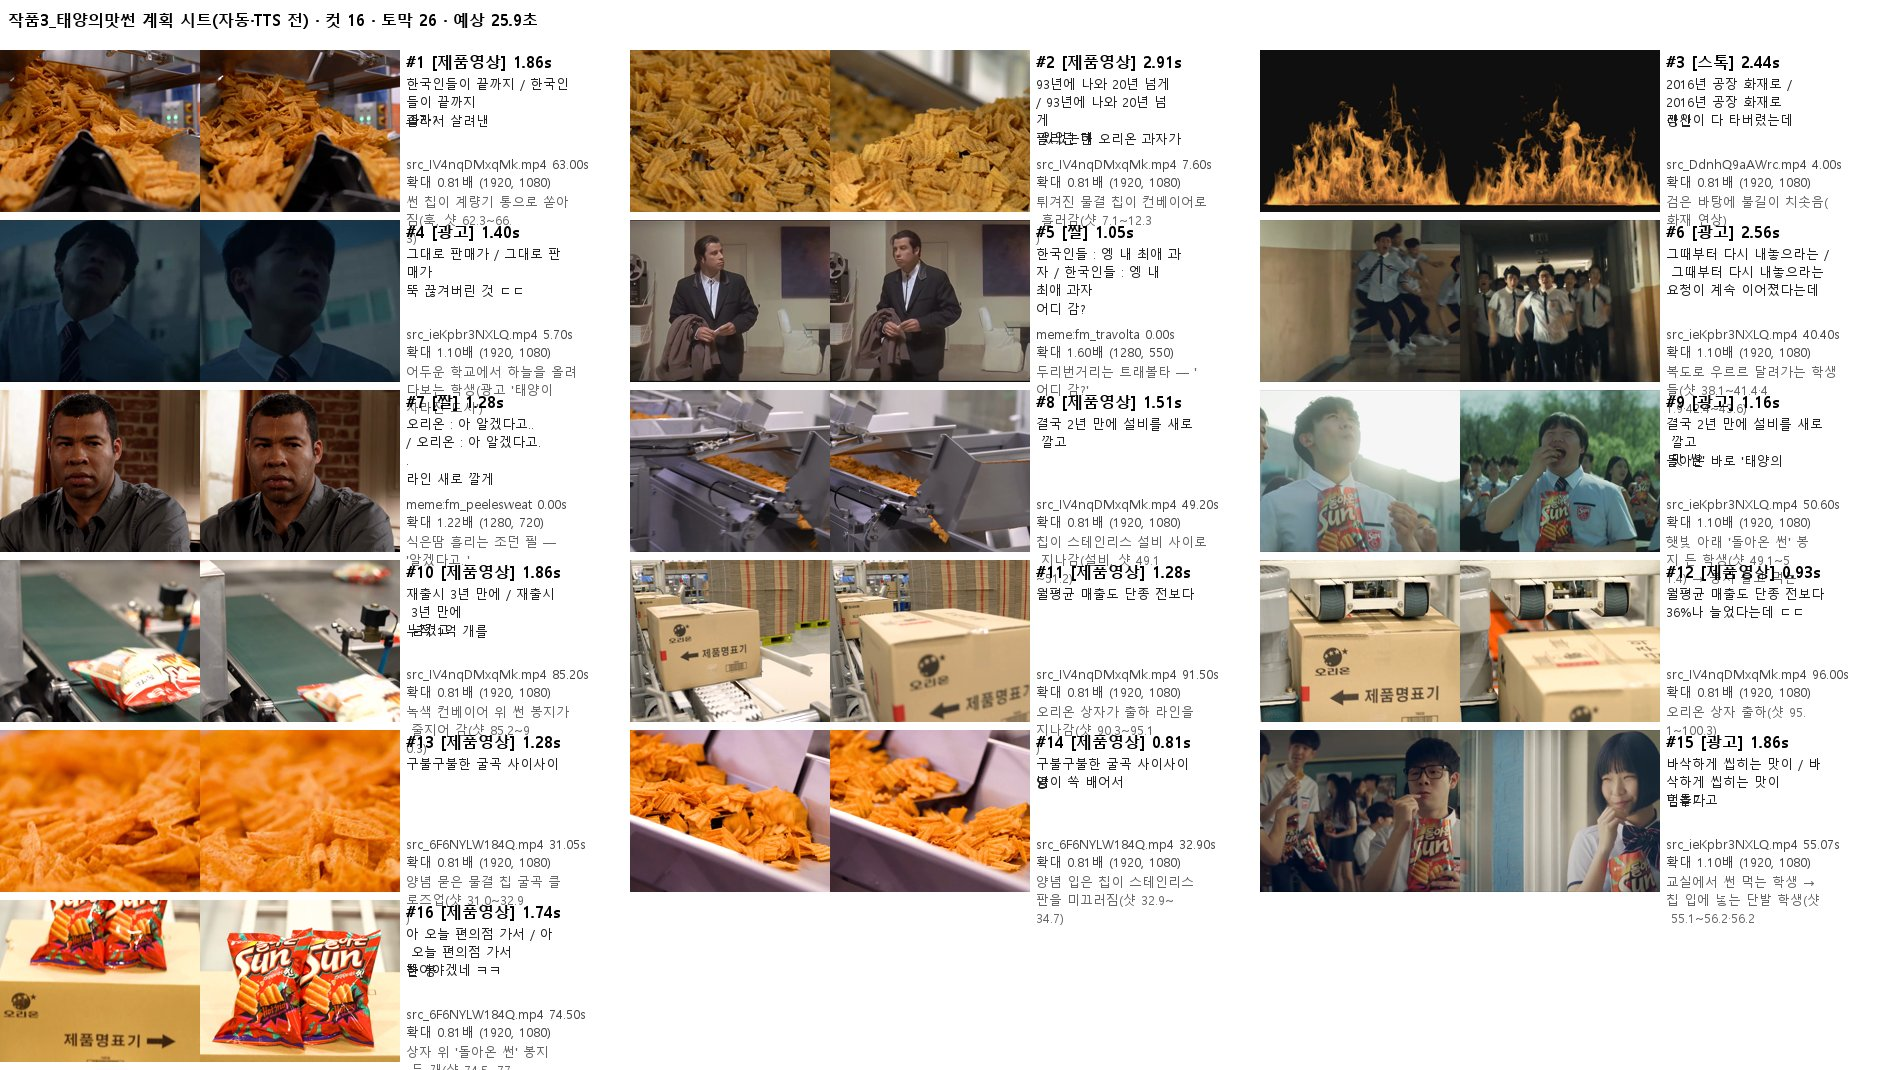
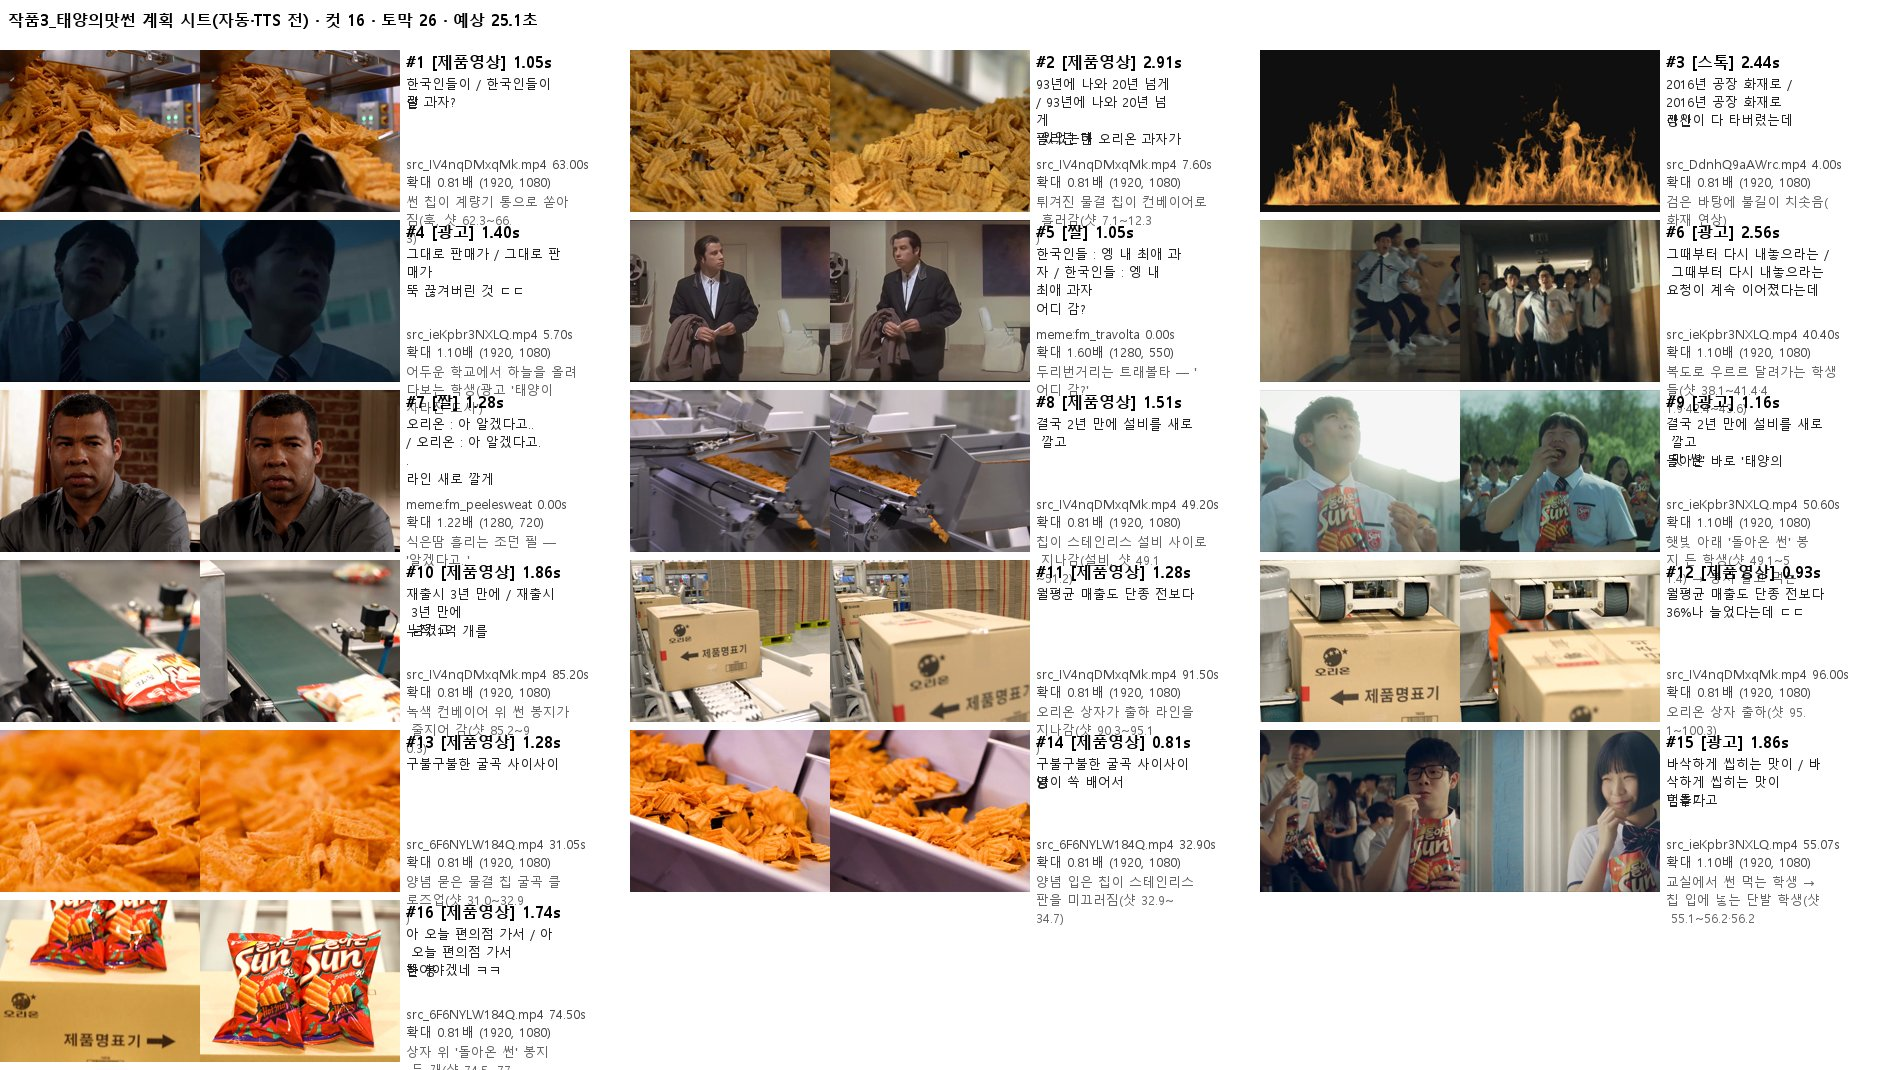
썰템쇼 작품3 태양의맛썬 완성 — 26.03초·−14.0 LUFS·8.55자/초·컷 중앙 1.6, 줄 시각 우회(훅 줄 글·ㄷㄷ)·B13 컷 교체, B14·B15 측정 결함 미달(엔진 요청) (관제 097)
Claude-Session: https://claude.ai/code/session_013qFs9XbPUJjhaCpg1Fyvj6

Changed region(s): [[0.0937, 0.0308, 0.2497, 0.2159], [0.2497, 0.0617, 0.281, 0.0925]]

diff --git a/channel/humorshowshow/작품3_태양의맛썬/plan/계획.md b/channel/humorshowshow/작품3_태양의맛썬/plan/계획.md
@@ -1,0 +1,30 @@
+# 작품3 태양의맛썬 — 줄↔컷 표·검수 (2026-10-18, 관제 097)
+
+완성본 `C:/숏템_칼카피/humorshowshow/작품3_태양의맛썬/src/make/final.mp4` = 바탕화면 `칼카피영상/썰템쇼/칼카피_썰템쇼_태양의맛썬.mp4` (MD5 e572597c41dce2f19ff731685990a3bf, 26.03초). TTS Typecast 1회(13덩어리), 그 뒤 캐시.
+
+## 줄↔컷 (A3, 완성본 1초 시트·프레임 눈 확인)
+| 줄(시작초) | 자막 | 컷(소스 초) | 화면 | 판정 |
+|---|---|---|---|---|
+| 0 (0.0) | 훅 카드 '한국인들이 끝까지/졸라서 살려낸 과자' | IV4n 63.0 | 썬 칩이 계량 통으로 쏟아짐 | ○ |
+| 1 (1.6) | 93년에 나와 20년 넘게/팔리던 한 오리온 과자가 있었는데 | IV4n 7.6 | 물결 칩 컨베이어(이름 숨김) | ○ |
+| 2 (4.17) | 2016년 공장 화재로/생산라인이 다 타버렸는데 | 스톡 불 4.0 | 불길 | ○(연상) |
+| 3 (6.5) | 그대로 판매가/뚝 끊겨버린 것 | 광고 5.7 | 어두운 학교 하늘 보는 학생('태양이 사라진 도시') | △ 연상 |
+| 4 (7.67) | 한국인들 : 엥 내 최애 과자/어디 감? | 짤 fm_travolta | 두리번거리는 트래볼타 | ○ |
+| 5 (8.93) | 그때부터 다시 내놓으라는/요청이 계속 이어졌다는데 | 광고 40.4 | 복도로 몰려 달리는 학생들 | △ 연상 |
+| 6 (11.13) | 오리온 : 아 알겠다고../라인 새로 깔게 | 짤 fm_peelesweat | 식은땀 조던 필 | ○ |
+| 7 (12.4) | 결국 2년 만에 설비를 새로 깔고/돌아온 바로 '태양의 맛 썬' | IV4n 49.2 → 광고 50.6 | 설비 라인 → 햇빛 아래 썬 봉지 든 학생 | ○ |
+| 8 (15.47) | 재출시 3년 만에/누적 1억 개를 넘겼고 | IV4n 85.2 | 썬 봉지 컨베이어(16.5초엔 봉지가 빠져나가는 중) | ○ |
+| 9 (17.4) | 월평균 매출도 단종 전보다/36%나 늘었다는데 ㄷㄷ | IV4n 91.5 → 96.0 | 오리온 상자 출하 | ○ |
+| 10 (19.93) | 구불구불한 굴곡 사이사이/양념이 쏙 배어서 | EDM판 31.05 → 36.7 | 양념 칩 굴곡 클로즈업 → 설비 위 양념 칩 | ○ |
+| 11 (21.83) | 바삭하게 씹히는 맛이/멈추기 힘들다고 | 광고 55.07 | 썬 먹는 학생 → 단발 학생 | ○ |
+| 12 (23.97) | 아 오늘 편의점 가서/한 봉 뜯어야겠네 ㅋㅋ | EDM판 74.5 | 상자 위 '돌아온 썬' 봉지 두 개 | ○ |
+
+## 자동 검사(run_log.json) — 미달 2 = 측정 결함(엔진 요청)
+- ○: B1 26.03초 · B2 −14.0 LUFS/최고 −1.5 · B3 8.55자/초 · B4 컷 중앙 1.6·최소 0.8·끝 2.07 · B6 짤 0.097·같은 짤 1 · B9 Y 105/206 · B13 0 · B16 되감김 0 · A4·A9·A11·A12
+- × B14 효과음 14 > 13: sfx_pack 이 훅 칸에 오프너+2발을 넣어 줄 수+1(대본으로 못 고침)
+- × B15 끝줄 9.14 > 9.03: 줄 말속도가 읽지 않는 'ㅋㅋ' 2자를 셈 — 빼면 16자/1.97초 = 8.1자/초
+- 그래서 preset_make 가 바탕화면 복사·결과물.json 등록을 안 함 → 바탕화면은 손으로 복사(MD5 같음), 결과물.json 미등록.
+
+## 줄 시각 우회(엔진 요청)
+- 첫 판: hottem_audio.break_points(글자 비례+쉼 길이 가중)가 3~6줄 경계를 쉼표 쉼('엥,' 뒤 등)에 한 칸씩 붙여 5줄 자막이 6줄 소리에 나옴(받아쓰기로 경계 확인). 경보가 안 떠 받아쓰기 경로도 안 탐.
+- 우회: 화면에 안 나오는 훅 줄 글을 4자 줄이고 3줄 'ㄷㄷ'을 뺌 → 완성본 줄 시작 12개가 전부 실제 줄 사이 쉼 끝과 일치(1.6·4.17·6.5·7.67·8.93·11.13·12.4·15.47·17.4·19.93·21.83·23.97).
